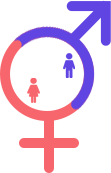
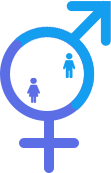
addchange

Changed region(s): [[0.0, 0.0, 1.0, 1.0]]

diff --git a/src/routes/IndexPage.scss b/src/routes/IndexPage.scss
@@ -1,5 +1,5 @@
-$color:rgb(96, 69, 227);
-body{ background: url(../assets/images/indexbg.png) no-repeat left top ;color:#333; background-size: 100% 100%;}
+$color:rgb(20, 159, 240);
+body{ background: url(../assets/images/indexbg.png) no-repeat left top ;color:#333; background-size:cover;}
 body,html{overflow: hidden;position: relative;}
 .index1{ width: 1920px;height: 960px;position: absolute; left: 50%; top: 0;margin-left: -960px;}
 .wrapBox{width: 1200px; margin: 0 auto; height: 100%; position: relative;}
@@ -14,22 +14,22 @@ body,html{overflow: hidden;position: relative;}
 .indexBox .img5{left: 50%;bottom: 40px;position: absolute;margin-left: -960px;}
 .indexBox .img8{left: 50%;bottom: 0;position: absolute;margin-left: -960px;}
 .index1Box,.index3Box{ width: 1200px;height: 920px; position: absolute; left: 0; top: 0;}
-.index1Box .img1{ top:127px; left: 344px; position: absolute;}
-.index1Box .img2{ top:219px; left: 265px; position: absolute;}
+.index1Box .img1{ top:127px; left: 360px; position: absolute;}
+.index1Box .img2{ top:219px; left: 318px; position: absolute;}
 // .index1Box .img3{ top:830px; left: 262px; position: absolute;}
 // .index1Box .img4{left: 50%;bottom: 6px;position: absolute;margin-left: -960px;}
 // .index1Box .img5{left: 50%;bottom: 6px;position: absolute;margin-left: -960px;}
 // .index1Box .img8{left: 50%;bottom: 0;position: absolute;margin-left: -960px;}
-.index1Box .img7{ top:445px; right: 68px; position: absolute;}
+.index1Box .img7{ top:445px; right: 13px; position: absolute;}
 .index1Box .img7:hover{cursor: pointer;}
-.index1Box .img6{ top:604px; left: 398px; position: absolute; cursor: pointer; width: 400px; height: 80px; line-height: 80px; text-align: center; background-color: #6044e4; border-radius: 40px; transition:all .2s;}
+.index1Box .img6{ top:604px; left: 398px; position: absolute; cursor: pointer; width: 400px; text-align: center; background-color: $color; border-radius: 40px; transition:all .2s;display: flex;align-items: center;justify-content: center;height: 80px;}
 .index1Box .img6:hover{box-shadow: 3px 10px 10px rgba(78, 87, 254,.2);top:600px; }
 // .rightbtn{width: 400px;height: 56px;line-height: 56px;text-indent: 36px; background-color: #1ac572; border-radius: 6px; overflow: hidden; font-size: 24px; color:#fff; position: relative; left: 656px; top: 574px; letter-spacing: 15px; cursor: pointer;}
 // .rightbtn .btn{width: 75px;height: 56px;line-height: 56px; position: absolute; right: 0; top: 0; background-color: #0cb462; text-indent: 0; text-align: center}
 .rightbtn .btn img{ display: inline-block; margin: 0 auto; text-indent: 0}
 .index2{width: 1190px;height: 734px;position: fixed; left: 50%; top: 50%; margin-left: -595px;margin-top: -367px;}
 .navBox{ display: flex; flex-direction: row; color:#fff;}
-.navBox .navbg{ flex:1; text-align: center; height: 56px;line-height: 56px; font-size: 16px; color:#fff; background-color: rgba(78, 87, 254,.3);transition: all .2s;}
+.navBox .navbg{ flex:1; text-align: center; height: 56px;line-height: 56px; font-size: 16px; color:#fff; background-color: rgba(20, 159, 240,.3);transition: all .2s;}
 .navBox .navbg a{display: block; color:#fff; cursor: pointer;}
 .navBox .navbg a:hover,.navAHover{background-color:$color}
 .indexContent{position:absolute; left: 0; top:56px; right: 0; bottom:0; background-color: #fff;}
@@ -84,8 +84,8 @@ body,html{overflow: hidden;position: relative;}
 .flexChildRight .humanBox .humanCon .humanNum{ display: inline-block;height: 32px; line-height: 32px; text-align: left; position: relative;display: inline-block; vertical-align: middle;width: 180px;}
 .flexChildRight .humanBox .humanCon .humanNum:after{display: block;content: attr(data-hunmans); color:#fff; text-align:left; font-size: 14px; position: absolute; left:0; top: 0; text-indent: 5px}
 .flexChildRight .humanBox:nth-child(2) .humanNum{ background-color:$color; }
-.flexChildRight .humanBox .humanCon:last-child .humanNum{background-color:#f7666d; }
-.index3Text{ position: absolute;width: 324px; color:#333; font-size: 18px;left: 222px; top:361px;}
+.flexChildRight .humanBox .humanCon:last-child .humanNum{background-color:#5b6ee5; }
+.index3Text{ position: absolute;width: 324px; color:#fff; font-size: 18px;left: 222px; top:361px;}
 .index3Text span{ font-size: 28px;margin-left: 10px; font-weight: bold}
 .index3Box .img2{left: 695px;top: 281px; margin: 0}
 .index3Box .rightbtn{width: 240px; height: 48px; line-height: 48px; color:#fff; background-color: $color; border-radius: 24px;left: 219px;top: 482px; font-size: 18px; text-indent: 0 ; text-align: center; letter-spacing: 5px; transition:all .2s; position: absolute; cursor: pointer;}

diff --git a/src/routes/IndexPage.js b/src/routes/IndexPage.js
@@ -6,10 +6,10 @@ import Index2 from '../components/Index2'
 import Index3 from '../components/Index3'
 import propTypes from 'prop-types'
 import { Spin } from 'antd'
-import train from './../assets/images/train.png'
-import building from './../assets/images/building.png'
-import tree from './../assets/images/tree.png'
-import breege from './../assets/images/breege.png'
+// import train from './../assets/images/train.png'
+// import building from './../assets/images/building.png'
+// import tree from './../assets/images/tree.png'
+// import breege from './../assets/images/breege.png'
 import aniamteStyles from '../assets/css/animate.css'
 
 function IndexPage(props) {
@@ -23,12 +23,12 @@ function IndexPage(props) {
           <Index2 navTitle={indexpage.navTitle} datas={props.indexpage} navCurIndex={indexpage.navCurIndex} dispatch={dispatch} indexTitle={indexpage} />
           <Index3 indexTitle={indexpage} dispatch={dispatch} />
         </div> : <Spin size="large" />}
-        <canvas id='canvas'></canvas>
+        {/* <canvas id='canvas'></canvas> */}
          
-          <img src={building} alt='' className={`${styles.img4} ${aniamteStyles.animated} ${aniamteStyles.fadeInUp}`} />
-          <img src={train} alt='' className={`${styles.img3} ${aniamteStyles.animated} ${aniamteStyles.fadeInUp}`} />
-          <img src={tree} alt='' className={`${styles.img5} ${aniamteStyles.animated} ${aniamteStyles.fadeInUp}`} />
-          <img src={breege} alt='' className={`${styles.img8} ${aniamteStyles.animated} ${aniamteStyles.fadeInUp}`} /> 
+          {/* <img src={building} alt='' className={`${styles.img4} ${aniamteStyles.animated} ${aniamteStyles.fadeInUp}`} /> */}
+          {/* <img src={train} alt='' className={`${styles.img3} ${aniamteStyles.animated} ${aniamteStyles.fadeInUp}`} /> */}
+          {/* <img src={tree} alt='' className={`${styles.img5} ${aniamteStyles.animated} ${aniamteStyles.fadeInUp}`} /> */}
+          {/* <img src={breege} alt='' className={`${styles.img8} ${aniamteStyles.animated} ${aniamteStyles.fadeInUp}`} />  */}
       </div>
     </div>
   );

diff --git a/src/components/index2Box/page1.js b/src/components/index2Box/page1.js
@@ -14,7 +14,7 @@ const Page1 = (props) => {
       <div className={styles.index2Title}>
         <img src={title} className={dataIndex==0?`${aniamteStyles.animated} ${aniamteStyles.fadeIn}`:`${aniamteStyles.animated} ${aniamteStyles.fadeOut}`} />
       </div>
-      <div className={styles.index2Content}><div className={dataIndex===0?`${aniamteStyles.animated} ${aniamteStyles.fadeIn} ${styles.zs}`:`${aniamteStyles.animated} ${aniamteStyles.fadeOut}  ${styles.zs}`}>国佳财富平台截止至{ajaxData[1]?ajaxData[1].data1:''}，平台成交量超过<span>{ajaxData[1]?ajaxData[1].data2:''}</span>万元，用户收益超<span>{ajaxData[1]?ajaxData[1].data3:''}</span>万元。十月份平台顺利完成了对银行资金存管系统的全新升级，优化便捷了转账充值的操作方式，以及恢复了快捷支付充值渠道。平台一直用心经营，在服务效率、用户体验等多方面不断提升，不断优化改进。</div>
+      <div className={styles.index2Content}><div className={dataIndex===0?`${aniamteStyles.animated} ${aniamteStyles.fadeIn} ${styles.zs}`:`${aniamteStyles.animated} ${aniamteStyles.fadeOut}  ${styles.zs}`}>国佳财富平台截止至{ajaxData[1]?ajaxData[1].data1:''}，平台成交量超过<span>{ajaxData[1]?ajaxData[1].data2:''}</span>万元，用户收益超<span>{ajaxData[1]?ajaxData[1].data3:''}</span>万元。平台自运营以来，一直坚持严格风控、信息透明的原则，规范运营，积极为客户提供更专业、高效、便捷、完善的创新金融服务。</div>
         <div className={styles.index2BottomCon}>
         <div className={dataIndex==0?`${aniamteStyles.animated} ${aniamteStyles.fadeIn} ${styles.flexChild}`:`${aniamteStyles.animated} ${aniamteStyles.fadeOut}  ${styles.flexChild}`}>
             <img src={img1} alt='' />

diff --git a/src/models/indexpage.js b/src/models/indexpage.js
@@ -16,7 +16,7 @@ export default {
     sectionDisplayNone:'none',
     //当前页
     pageIndex: 0,
-    monthTitle: '7月份运营报告',
+    monthTitle: '11月份运营月报',
     navTitle: ['01 综述', '02 成交量', '03 出借方式', '04 赚取收益', '05 已还本息', '06 项目分布', '07 用户注册'],
     //当前导航
     navCurIndex: 0,
@@ -37,10 +37,10 @@ export default {
       //canvas
       // dispatch({type: 'runCanvas'})
       //运动火车
-      dispatch({type:'runTrain'})
+      // dispatch({type:'runTrain'})
     }; 
     //设置标题
-    document.title = '10月份运营月报'; }
+    document.title = '11月份运营月报'; }
   },
 
   effects: {
@@ -140,12 +140,12 @@ export default {
     //     ...state
     //   }
     // }
-    runTrain(state, action){
-      runTrainHandle()
-      return {
-        ...state
-      }
-    }
+    // runTrain(state, action){
+    //   runTrainHandle()
+    //   return {
+    //     ...state
+    //   }
+    // }
   },
  
 };

diff --git a/src/utils/changeData.js b/src/utils/changeData.js
@@ -28,7 +28,7 @@
           )
           //3出借方式
           pageDatas.push({
-              data1:['rgb(96, 69, 227)', '#cccccc'],
+              data1:['rgb(20, 159, 240)', '#cccccc'],
               data2:savePointTow(data.auto_invest_percent * 1000) + '%',
               data3:savePointTow(data.manual_invest_percent * 1000) +
               '%',

diff --git a/src/services/example.js b/src/services/example.js
@@ -13,7 +13,7 @@ export function querys() {
     url = "http://api.pingdainet.com/api/report/GetReportModel";
   }
   var postData = {
-    body: JSON.stringify({"Year": 2019,"Month": 10}),
+    body: JSON.stringify({"Year": 2019,"Month": 11}),
     headers: {
       'content-type': 'application/json'
     },
